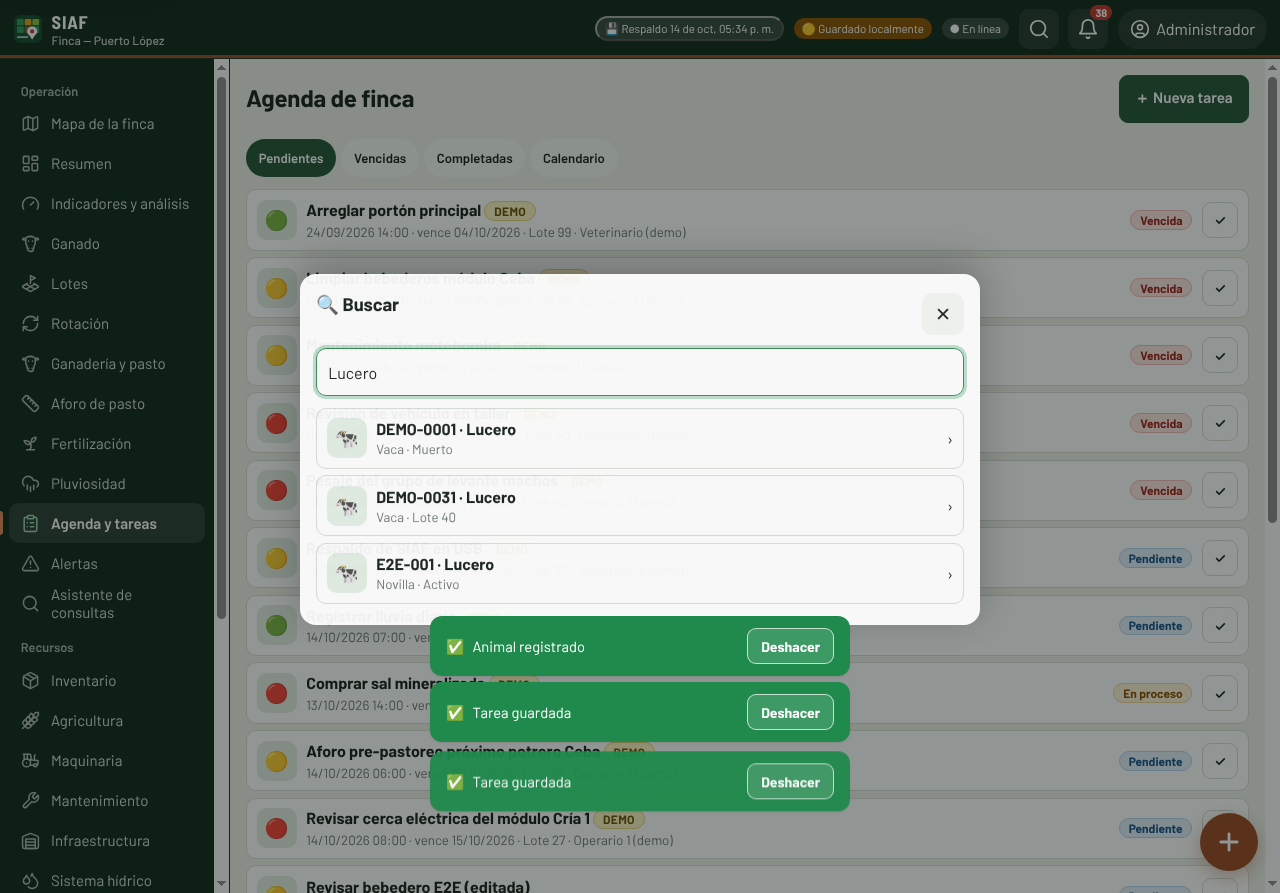
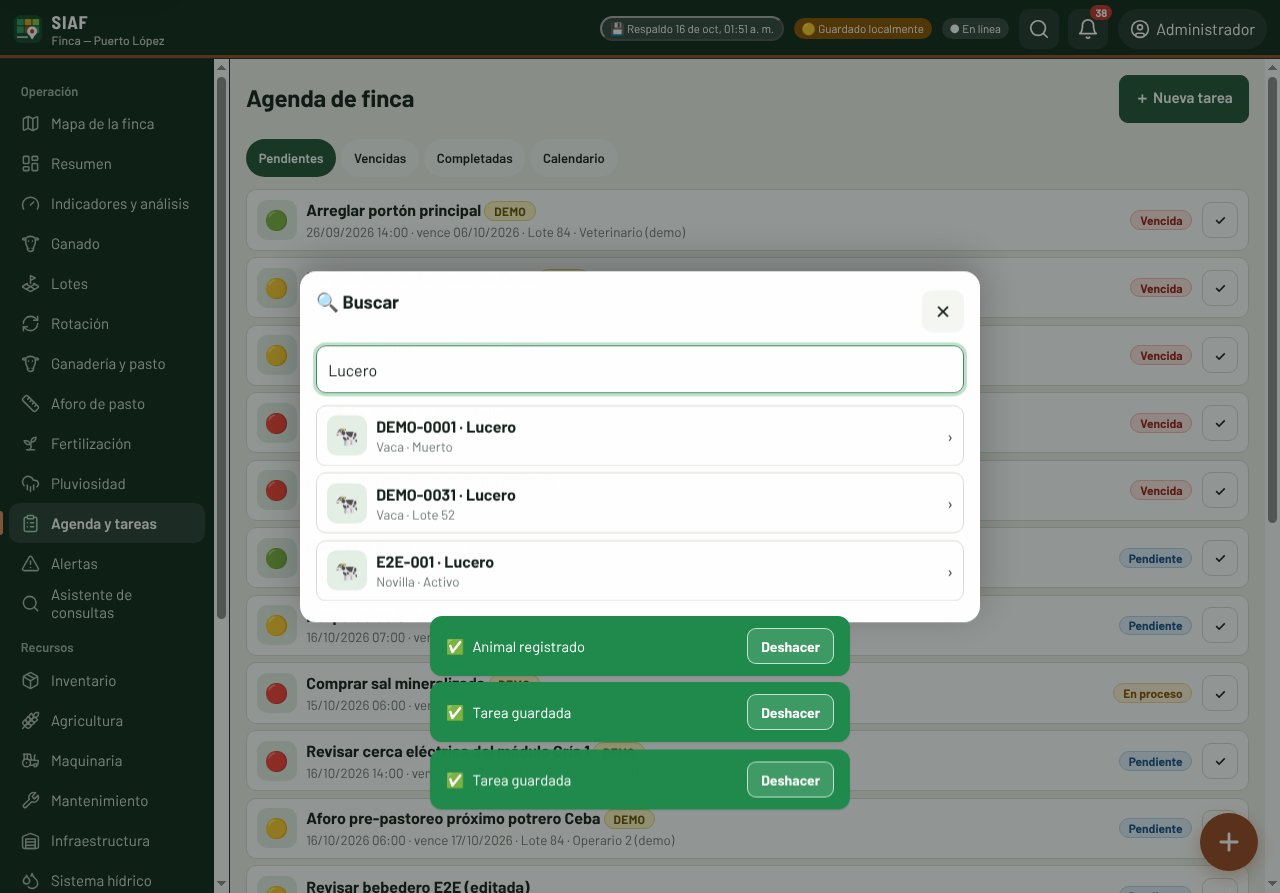
Pruebas: confirmar valores al rellenar formularios; scripts PowerShell con BOM UTF-8 (tildes en Windows PowerShell 5.1)
Claude-Session: https://claude.ai/code/session_01P2utsbxsK3f6TPo9tj9h5d

diff --git a/siaf-escritorio/tests/e2e/fixture.js b/siaf-escritorio/tests/e2e/fixture.js
@@ -55,6 +55,16 @@ async function ingresar(win, usuarioId, pin) {
   await win.waitForSelector('#app .topbar', { timeout: 60000 });
 }
 
+/** Rellena un campo y confirma el valor (SIAF puede estar inicializando el formulario recién abierto). */
+async function rellenar(win, sel, valor) {
+  for (let i = 0; i < 5; i++) {
+    await win.fill(sel, valor);
+    if (await win.inputValue(sel) === valor) { await win.waitForTimeout(150); if (await win.inputValue(sel) === valor) return; }
+    await win.waitForTimeout(300);
+  }
+  throw new Error(`No se pudo rellenar ${sel}`);
+}
+
 /** Pulsa un elemento del menú de la aplicación por etiquetas (prueba el cableado real del menú). */
 function menu(app, ...ruta) {
   return app.evaluate(({ Menu }, ruta) => {
@@ -70,4 +80,4 @@ const captura = (win, nombre) => win.screenshot({ path: path.join(EVID, nombre +
 async function cerrar(app) { const p = app.process(); await app.close().catch(() => { }); if (p && p.exitCode === null) p.kill('SIGKILL'); }
 async function externas(app) { return app.evaluate(() => global.__externas); }
 
-module.exports = { cerrarNovedades, abrir, primerIngreso, ingresar, teclearPin, menu, listarRespaldos, esperarArchivo, captura, cerrar, externas, datos, expect, RAIZ, EVID };
+module.exports = { rellenar, cerrarNovedades, abrir, primerIngreso, ingresar, teclearPin, menu, listarRespaldos, esperarArchivo, captura, cerrar, externas, datos, expect, RAIZ, EVID };

diff --git a/siaf-escritorio/tests/e2e/01-arranque-datos.spec.js b/siaf-escritorio/tests/e2e/01-arranque-datos.spec.js
@@ -4,7 +4,7 @@
 const { test } = require('@playwright/test');
 const fs = require('fs');
 const path = require('path');
-const { abrir, primerIngreso, menu, listarRespaldos, esperarArchivo, captura, cerrar, externas, datos, expect } = require('./fixture');
+const { rellenar, abrir, primerIngreso, menu, listarRespaldos, esperarArchivo, captura, cerrar, externas, datos, expect } = require('./fixture');
 
 const DIR = datos('p01');
 
@@ -48,11 +48,13 @@ test('P02–P06 crear, editar y consultar registros; fotografía; persistencia t
   // ---- crear animal con fotografía ----
   await menu(app, 'Visualización', 'Ganado');
   await win.click('[data-nuevo]');
-  await win.fill('#f-arete', 'E2E-001');
+  await win.waitForSelector('.capa-oscura #f-arete');
+  await rellenar(win, '#f-arete', 'E2E-001');
   await win.selectOption('#f-sexo', 'H');
-  await win.fill('#f-nombre', 'Lucero');
+  await rellenar(win, '#f-nombre', 'Lucero');
   const png = path.join(__dirname, '..', '..', 'build', 'icon.png');
   if (await win.locator('#f-fotos').count()) await win.setInputFiles('#f-fotos', png);
+  expect(await win.inputValue('#f-arete')).toBe('E2E-001');
   await win.click('.capa-oscura [data-guardar]');
   await expect(win.locator('#toasts')).toContainText('Animal registrado');
   const animal = await win.evaluate(() => DB.todos('animales').find(a => a.arete === 'E2E-001'));
